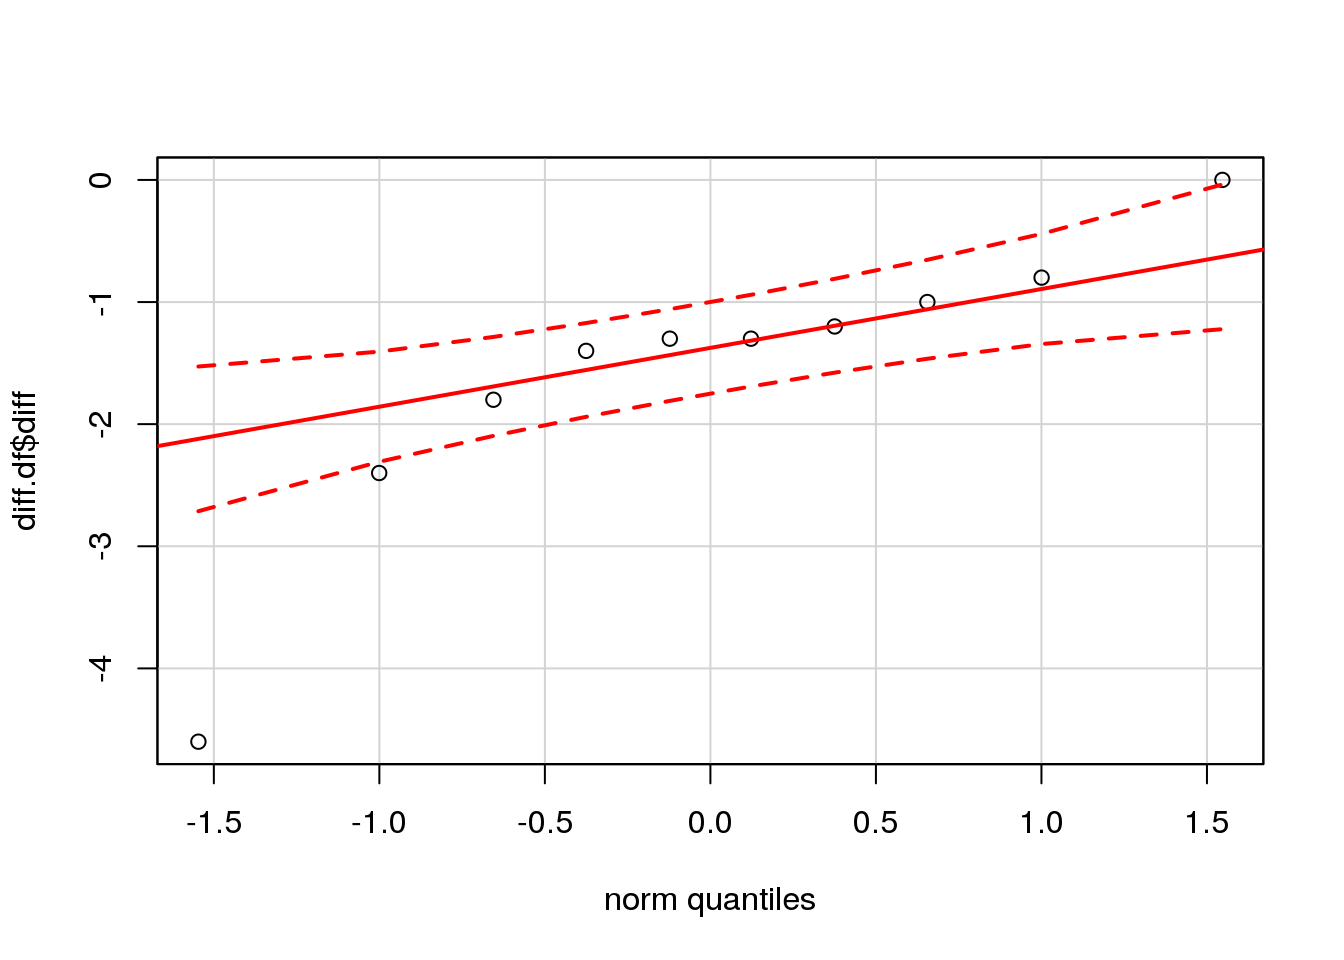
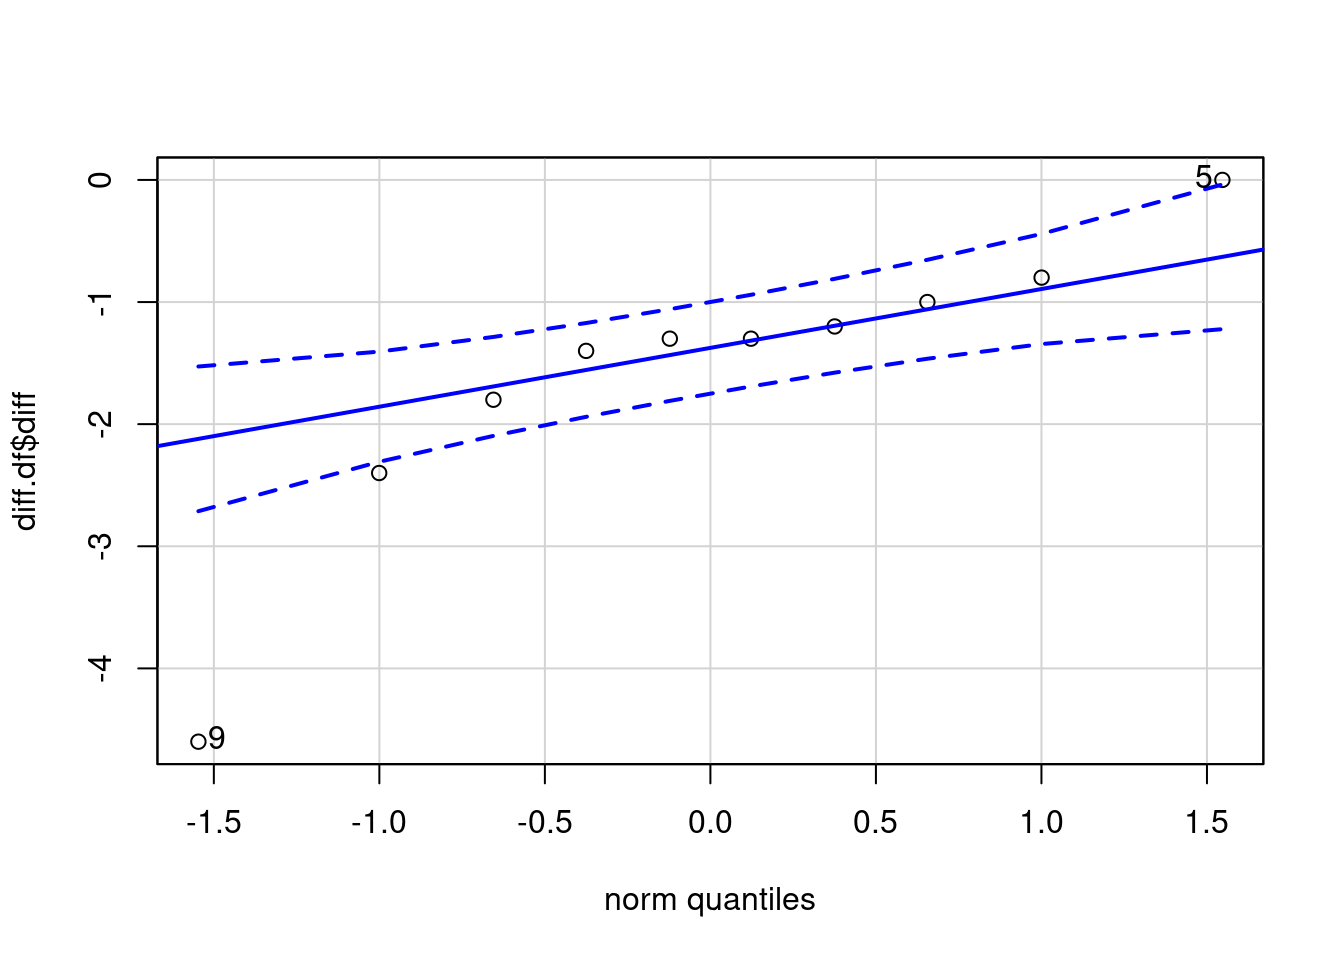
removed paired test overview post and moved it to matched data tag

diff --git a/content/post/statistical_test/signed_wilcox_rank_test.html b/content/post/statistical_test/signed_wilcox_rank_test.html
@@ -9,16 +9,16 @@ tags:
   - Wilcoxon
   - non-parametric test
   - parametric test
-  - statistical test
   - box plot
   - one-tailed
-  - paired test
+  - matched data
   - Q-Q plot
 ---
 
 
 
-<p>In this post, we will explore tests for comparing two groups of dependent (i.e. paired) quantitative data: the Wilcoxon signed rank test and the paired Student’s t-test. The critical difference between these tests is that the test from Wilcoxon is a non-parametric test, while the t-test is a parametric test. In the following, we will explore the ramifications of this difference. <!--more--></p>
+<p>In this post, we will explore tests for comparing two groups of dependent (i.e. paired) quantitative data: the Wilcoxon signed rank test and the paired Student’s t-test. The critical difference between these tests is that the test from Wilcoxon is a non-parametric test, while the t-test is a parametric test. In the following, we will explore the ramifications of this difference.
+<!--more--></p>
 <div id="the-sleep-data-set" class="section level2">
 <h2>The sleep data set</h2>
 <p>Let’s consider the sleep data set. The data set contrasts the effect of two soporific drugs (aka sleeping pills) by providing the change in the number of hours slept after taking the drug compared to a baseline:</p>
@@ -62,7 +62,9 @@ print(sleep)</code></pre>
 </div>
 <div id="wilcoxon-signed-rank-test" class="section level2">
 <h2>Wilcoxon Signed Rank Test</h2>
-<p>The Wilcoxon signed rank test uses the sum of the signed ranks as the test statistic <span class="math inline">\(W\)</span>: <span class="math display">\[W=\sum _{{i=1}}^{{N}}[\operatorname{sgn}(x_{{2,i}}-x_{{1,i}})\cdot R_{i}]\]</span> Here, the <span class="math inline">\(i\)</span>-th of <span class="math inline">\(N\)</span> measurement pairs is indicated by <span class="math inline">\(x_i = (x_{1,i}, x_{2,i})\)</span> and <span class="math inline">\(R_{i}\)</span> denotes the rank of the pair. The rank simply represents the position of an observation in an ordered list of <span class="math inline">\(|x_{2,i} - x_{1,i}|\)</span>. The inuition of the test statistic is that pairs with large absolute differences will have large ranks <span class="math inline">\(R_{i}\)</span>. Thus, these pairs are the determining factors of <span class="math inline">\(W\)</span>, while pairs exhibiting small absolute differences have a low <span class="math inline">\(R_{i}\)</span> and therefore little influence on the outcome of the test. Since the test statistic is based on ranks rather than the measurements themselves, the Wilcoxon signed rank test can be thought of as testing for shifts in median values between two groups.</p>
+<p>The Wilcoxon signed rank test uses the sum of the signed ranks as the test statistic <span class="math inline">\(W\)</span>:
+<span class="math display">\[W=\sum _{{i=1}}^{{N}}[\operatorname{sgn}(x_{{2,i}}-x_{{1,i}})\cdot R_{i}]\]</span>
+Here, the <span class="math inline">\(i\)</span>-th of <span class="math inline">\(N\)</span> measurement pairs is indicated by <span class="math inline">\(x_i = (x_{1,i}, x_{2,i})\)</span> and <span class="math inline">\(R_{i}\)</span> denotes the rank of the pair. The rank simply represents the position of an observation in an ordered list of <span class="math inline">\(|x_{2,i} - x_{1,i}|\)</span>. The inuition of the test statistic is that pairs with large absolute differences will have large ranks <span class="math inline">\(R_{i}\)</span>. Thus, these pairs are the determining factors of <span class="math inline">\(W\)</span>, while pairs exhibiting small absolute differences have a low <span class="math inline">\(R_{i}\)</span> and therefore little influence on the outcome of the test. Since the test statistic is based on ranks rather than the measurements themselves, the Wilcoxon signed rank test can be thought of as testing for shifts in median values between two groups.</p>
 <p>To perform the test in R, we can use the <code>wilcox.test</code> function. However, we have to explicitly set the <em>paired</em> argument to indicate that we are dealing with matched observations. To specify the one-tailed test, we set the <em>alternative</em> argument to <em>greater</em>. In this way, the alternative of the test is whether drug 2 is associated with larger increases in sleep duration than drug 1.</p>
 <pre class="r"><code>x &lt;- sleep$extra[sleep$drug == 2]
 y &lt;- sleep$extra[sleep$drug == 1]
@@ -115,8 +117,10 @@ ggplot(diff.df, aes(x = diff)) + geom_histogram()</code></pre>
 <p>Looking at the histogram, the data seem rather uniformly than normally distributed. To take a closer look, we compare the differences to the values that would be expected from a normal distribution using a <a href="https://en.wikipedia.org/wiki/Q%E2%80%93Q_plot">Q-Q (quantile-quantile) plot</a>:</p>
 <pre class="r"><code>require(car) # load car package to use &#39;qqp&#39; rather than native &#39;qqplot&#39; function</code></pre>
 <pre><code>## Loading required package: car</code></pre>
+<pre><code>## Loading required package: carData</code></pre>
 <pre class="r"><code>qqp(diff.df$diff)</code></pre>
 <p><img src="/post/statistical_test/signed_wilcox_rank_test_files/figure-html/unnamed-chunk-9-1.png" width="672" /></p>
+<pre><code>## [1] 9 5</code></pre>
 <p>The Q-Q plot shows that the differences fit the normal model quite well, except for the heavy tails. From this, we could conclude that the assumption of the t-test is sufficiently met. Still, we’re left with a feeling of uncertainty about whether the t-test was the most appropriate choice for these data.</p>
 </div>
 </div>

diff --git a/content/tags/matched-data/_index.html b/content/tags/matched-data/_index.html
@@ -1,0 +1,42 @@
+---
+title: "Handling matched data"
+thumbnail: "tags/statistical-test/matched-data/black-and-white-connect-hand-164531.jpg"
+---
+
+
+
+<p><img src="black-and-white-connect-hand-164531.jpg"></p>
+<p>In contrast to independent measurements, matched data consist of measurements that should be considered together. For example, matching can be used in clinical studies. Here, patients that exhibit similar characteristics are paired in order to remove confounding effects. Matched data can also arise naturally when multiple measurements are performed on the same entity. For example, matched data can arise when a clinical marker is measured once before and once after a
+treatment intervention. Irrespective of how the matched data were generated, their structure should be taken into account through the use of appropriate statistical tests.
+<!--more--></p>
+<div id="paired-data" class="section level2">
+<h2>Paired data</h2>
+<p>The most common type of matched data are paired measurements, which consist of two data points. For this type of data, the following significance tests are available:</p>
+<table>
+<thead>
+<tr class="header">
+<th>Type of dependent variable</th>
+<th>Tests</th>
+</tr>
+</thead>
+<tbody>
+<tr class="odd">
+<td><a href="/post/statistical_test/signed_wilcox_rank_test/">Quantitative</a></td>
+<td>Paired t-test, Wilcoxon signed rank test</td>
+</tr>
+<tr class="even">
+<td><a href="/post/statistical_test/mcnemars_test/">Categorical</a></td>
+<td>McNemar’s test</td>
+</tr>
+</tbody>
+</table>
+<p>Click on a variable type in the table to obtain more information on how to use the corresponding significance tests in R.</p>
+</div>
+<div id="repeated-measures-data" class="section level2">
+<h2>Repeated-measures data</h2>
+<p>If you have more than two matched measurements, then you are dealing with repeated-measures data. An example of a significance test that handles such data is <a href="https://www.graphpad.com/guides/prism/7/statistics/index.htm?stat_checklist_1wayanova_rm.htm">repeated-measures one-way ANOVA</a>.</p>
+</div>
+<div id="posts-that-deal-with-matched-data" class="section level2">
+<h2>Posts that deal with matched data</h2>
+<p>In the following posts, you can find more specific information on how you can handle matched data.</p>
+</div>

diff --git a/content/post/statistical_test/paired_vs_unpaired_tests.html b/content/post/statistical_test/paired_vs_unpaired_tests.html
@@ -6,7 +6,7 @@ thumbnail: "post/statistical_test/paired_vs_unpaired_tests_cover.png"
 categories:
   - statistical test
 tags:
-  - paired test
+  - matched data
   - unpaired test 
   - Wilcoxon rank-sum test
   - Wilcoxon signed rank test

diff --git a/content/post/statistical_test/contingency_table_tests.html b/content/post/statistical_test/contingency_table_tests.html
@@ -8,7 +8,6 @@ categories:
 tags:
   - Chi-squared test
   - Fisher's exact test
-  - statistical test
   - unpaired test
   - multiple testing
   - non-parametric test
